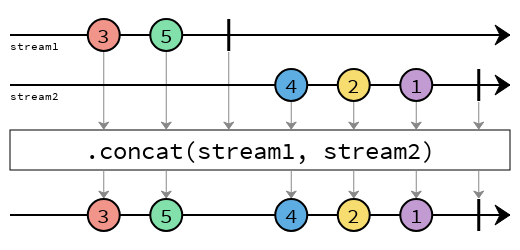
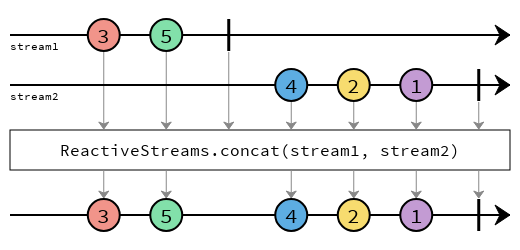
Added fromCompletionStage

Changed region(s): [[0.0923, 0.56, 0.8923, 0.644]]

diff --git a/api/src/docs/js/mp-rs-ops-marbles.js b/api/src/docs/js/mp-rs-ops-marbles.js
@@ -302,11 +302,23 @@ function createMarbles() {
       ]
     },
     concat: {
+      op: {
+        fontSize: "12pt"
+      },
       stages: [
         ins({label: "stream1"}, none, n(3), n(5), term),
         ins({label: "stream2"}, none, none, none, none, n(4), n(2), n(1), term),
-        op(".concat(stream1, stream2)"),
+        op("ReactiveStreams.concat(stream1, stream2)"),
         out(none, n(3), n(5), none, n(4), n(2), n(1), term )
+      ]
+    },
+    fromCompletionStage: {
+      op: {
+        fontSize: "12pt"
+      },
+      stages: [
+        op("ReactiveStreams.fromCompletionStage(asyncEcho(3))"),
+        ins(none, n(3), term, none, none, )
       ]
     },
 

diff --git a/tck/src/main/java/org/eclipse/microprofile/reactive/streams/tck/spi/FromCompletionStageVerification.java b/tck/src/main/java/org/eclipse/microprofile/reactive/streams/tck/spi/FromCompletionStageVerification.java
@@ -1,0 +1,138 @@
+/*******************************************************************************
+ * Copyright (c) 2018 Contributors to the Eclipse Foundation
+ *
+ * See the NOTICE file(s) distributed with this work for additional
+ * information regarding copyright ownership.
+ *
+ * Licensed under the Apache License, Version 2.0 (the "License");
+ * You may not use this file except in compliance with the License.
+ * You may obtain a copy of the License at
+ *
+ *     http://www.apache.org/licenses/LICENSE-2.0
+ *
+ * Unless required by applicable law or agreed to in writing, software
+ * distributed under the License is distributed on an "AS IS" BASIS,
+ * WITHOUT WARRANTIES OR CONDITIONS OF ANY KIND, either express or implied.
+ * See the License for the specific language governing permissions and
+ * limitations under the License.
+ ******************************************************************************/
+
+package org.eclipse.microprofile.reactive.streams.tck.spi;
+
+import org.eclipse.microprofile.reactive.streams.PublisherBuilder;
+import org.eclipse.microprofile.reactive.streams.ReactiveStreams;
+import org.reactivestreams.Publisher;
+import org.testng.annotations.Test;
+
+import java.util.Collections;
+import java.util.List;
+import java.util.concurrent.CompletableFuture;
+import java.util.concurrent.CompletionStage;
+
+import static org.testng.Assert.assertEquals;
+import static org.testng.Assert.assertFalse;
+
+public class FromCompletionStageVerification extends AbstractStageVerification {
+
+    FromCompletionStageVerification(ReactiveStreamsSpiVerification.VerificationDeps deps) {
+        super(deps);
+    }
+
+    @Test
+    public void fromCsStageShouldEmitAnElementWhenAlreadyRedeemed() {
+        assertEquals(await(
+            ReactiveStreams.fromCompletionStage(CompletableFuture.completedFuture(10))
+                .toList()
+                .run(getEngine())
+        ), Collections.singletonList(10));
+    }
+
+    @Test
+    public void fromCsStageShouldEmitAnElementWhenRedeemedLater() throws InterruptedException {
+        CompletableFuture<Integer> future = new CompletableFuture<>();
+        CompletionStage<List<Integer>> result = ReactiveStreams.fromCompletionStage(future)
+            .toList()
+            .run(getEngine());
+        // Give it some time to not complete
+        Thread.sleep(100);
+        assertFalse(result.toCompletableFuture().isDone());
+        future.complete(10);
+        assertEquals(await(result), Collections.singletonList(10));
+    }
+
+    @Test
+    public void fromCsStageShouldBeEmptyWhenAlreadyRedeemedWithNull() {
+        assertEquals(await(
+            ReactiveStreams.fromCompletionStage(CompletableFuture.completedFuture(null))
+                .toList()
+                .run(getEngine())
+        ), Collections.emptyList());
+    }
+
+    @Test
+    public void fromCsStageShouldBeEmptyWhenRedeemedWithNullLater() throws InterruptedException {
+        CompletableFuture<Integer> future = new CompletableFuture<>();
+        CompletionStage<List<Integer>> result = ReactiveStreams.fromCompletionStage(future)
+            .toList()
+            .run(getEngine());
+        // Give it some time to not complete
+        Thread.sleep(100);
+        assertFalse(result.toCompletableFuture().isDone());
+        future.complete(null);
+        assertEquals(await(result), Collections.emptyList());
+    }
+
+    @Test(expectedExceptions = QuietRuntimeException.class, expectedExceptionsMessageRegExp = "failed")
+    public void fromCsStageShouldPropagateAlreadyRedeemedExceptions() {
+        CompletableFuture<Integer> future = new CompletableFuture<>();
+        future.completeExceptionally(new QuietRuntimeException("failed"));
+        await(
+            ReactiveStreams.fromCompletionStage(future)
+                .toList()
+                .run(getEngine())
+        );
+    }
+
+    @Test(expectedExceptions = QuietRuntimeException.class, expectedExceptionsMessageRegExp = "failed")
+    public void fromCsStageShouldPropagateExceptionsWhenFailedLater() throws InterruptedException {
+        CompletableFuture<Integer> future = new CompletableFuture<>();
+        CompletionStage<List<Integer>> result = ReactiveStreams.fromCompletionStage(future)
+            .toList()
+            .run(getEngine());
+        // Give it some time to not complete
+        Thread.sleep(100);
+        assertFalse(result.toCompletableFuture().isDone());
+        future.completeExceptionally(new QuietRuntimeException("failed"));
+        await(result);
+    }
+
+    @Test
+    public void fromCsStageShouldBeReusable() {
+        PublisherBuilder<Integer> publisher =
+            ReactiveStreams.fromCompletionStage(CompletableFuture.completedFuture(10));
+
+        assertEquals(await(publisher.toList().run(getEngine())), Collections.singletonList(10));
+        assertEquals(await(publisher.toList().run(getEngine())), Collections.singletonList(10));
+    }
+
+    @Override
+    List<Object> reactiveStreamsTckVerifiers() {
+        return Collections.singletonList(new PublisherVerification());
+    }
+
+    public class PublisherVerification extends StagePublisherVerification<String> {
+        @Override
+        public Publisher<String> createPublisher(long elements) {
+            return ReactiveStreams.fromCompletionStage(
+                CompletableFuture.completedFuture(elements == 0 ? null : "value")
+            ).buildRs(getEngine());
+        }
+
+        @Override
+        public long maxElementsFromPublisher() {
+            return 1;
+        }
+    }
+
+
+}

diff --git a/api/src/main/java/org/eclipse/microprofile/reactive/streams/ReactiveStreams.java b/api/src/main/java/org/eclipse/microprofile/reactive/streams/ReactiveStreams.java
@@ -27,6 +27,7 @@ import org.reactivestreams.Subscriber;
 import java.util.Arrays;
 import java.util.Collections;
 import java.util.Objects;
+import java.util.concurrent.CompletionStage;
 import java.util.function.Supplier;
 import java.util.function.UnaryOperator;
 import java.util.stream.Stream;
@@ -230,5 +231,24 @@ public class ReactiveStreams {
     public static <T> PublisherBuilder<T> concat(PublisherBuilder<? extends T> a,
                                                  PublisherBuilder<? extends T> b) {
         return new PublisherBuilder<>(new Stage.Concat(a.toGraph(), b.toGraph()));
+    }
+
+    /**
+     * Creates a publisher from a {@link CompletionStage}.
+     * <p>
+     * <img src="doc-files/fromCompletionStage.png" alt="fromCompletionStage marble diagram">
+     * <p>
+     * When the {@code CompletionStage} is redeemed, the publisher will emit the redeemed element, and then signal
+     * completion. If the completion stage is redeemed with {@code null}, no element will be emitted, the publisher
+     * will immediately signal completion.
+     * <p>
+     * If the {@code CompletionStage} is completed with a failure, this failure will be propagated through the stream.
+     *
+     * @param completionStage The {@code CompletionStage} to create the publisher from.
+     * @param <T> The type of the {@code CompletionStage} value.
+     * @return A {@code PublisherBuilder} representation of this {@code CompletionStage}.
+     */
+    public static <T> PublisherBuilder<T> fromCompletionStage(CompletionStage<? extends T> completionStage) {
+        return new PublisherBuilder<>(new Stage.FromCompletionStage(completionStage));
     }
 }

diff --git a/api/src/main/java/org/eclipse/microprofile/reactive/streams/spi/Stage.java b/api/src/main/java/org/eclipse/microprofile/reactive/streams/spi/Stage.java
@@ -826,4 +826,27 @@ public interface Stage {
         private Cancel() {
         }
     }
+
+    /**
+     * A publisher representation of a {@link CompletionStage}.
+     * <p>
+     * This stage must emit the value produced by the {@code CompletionStage}, then immediately complete the stream.
+     * If the value is {@code null}, then no element must be emitted, and the stream must be immediately completed.
+     * If the {@code CompletionStage} is redeemed with a failure, the stream must be failed with that failure.
+     * <p>
+     * If the stream is cancelled by downstream before the {@code CompletionStage} has been redeemed, then this stage
+     * must do nothing. It must not cancel the {@code CompletionStage} (since {@code CompletionStage} offers no API
+     * for cancellation), and it must not emit any further signals when the {@code CompletionStage} is redeemed.
+     */
+    final class FromCompletionStage implements Outlet {
+        private final CompletionStage<?> completionStage;
+
+        public FromCompletionStage(CompletionStage<?> completionStage) {
+            this.completionStage = Objects.requireNonNull(completionStage, "CompletionStage must not be null");
+        }
+
+        public CompletionStage<?> getCompletionStage() {
+            return completionStage;
+        }
+    }
 }

diff --git a/tck/src/main/java/org/eclipse/microprofile/reactive/streams/tck/api/ReactiveStreamsVerification.java b/tck/src/main/java/org/eclipse/microprofile/reactive/streams/tck/api/ReactiveStreamsVerification.java
@@ -28,6 +28,7 @@ import org.testng.annotations.Test;
 import java.util.Arrays;
 import java.util.Collections;
 import java.util.Iterator;
+import java.util.concurrent.CompletableFuture;
 
 import static org.testng.Assert.assertEquals;
 import static org.testng.Assert.assertFalse;
@@ -213,6 +214,21 @@ public class ReactiveStreamsVerification {
     @Test(expectedExceptions = NullPointerException.class)
     public void concatSecondNull() {
         ReactiveStreams.concat(ReactiveStreams.empty(), null);
+    }
+
+    @Test
+    public void fromCompletionStage() {
+        CompletableFuture<Integer> future = CompletableFuture.completedFuture(1);
+        Graph graph = GraphAccessor.buildGraphFor(ReactiveStreams.fromCompletionStage(future));
+        assertFalse(graph.hasInlet());
+        assertTrue(graph.hasOutlet());
+        Stage.FromCompletionStage fromCompletionStage = getStage(Stage.FromCompletionStage.class, graph);
+        assertSame(fromCompletionStage.getCompletionStage(), future);
+    }
+
+    @Test(expectedExceptions = NullPointerException.class)
+    public void fromCompletionStageNull() {
+        ReactiveStreams.fromCompletionStage(null);
     }
 
     private <S extends Stage> S getStage(Class<S> clazz, Graph graph) {

diff --git a/tck/src/main/java/org/eclipse/microprofile/reactive/streams/tck/spi/ReactiveStreamsSpiVerification.java b/tck/src/main/java/org/eclipse/microprofile/reactive/streams/tck/spi/ReactiveStreamsSpiVerification.java
@@ -78,7 +78,8 @@ public class ReactiveStreamsSpiVerification {
             LimitStageVerification::new,
             SkipStageVerification::new,
             DropWhileStageVerification::new,
-            OnErrorResumeStageVerification::new
+            OnErrorResumeStageVerification::new,
+            FromCompletionStageVerification::new
         );
 
         List<Object> allTests = new ArrayList<>();
